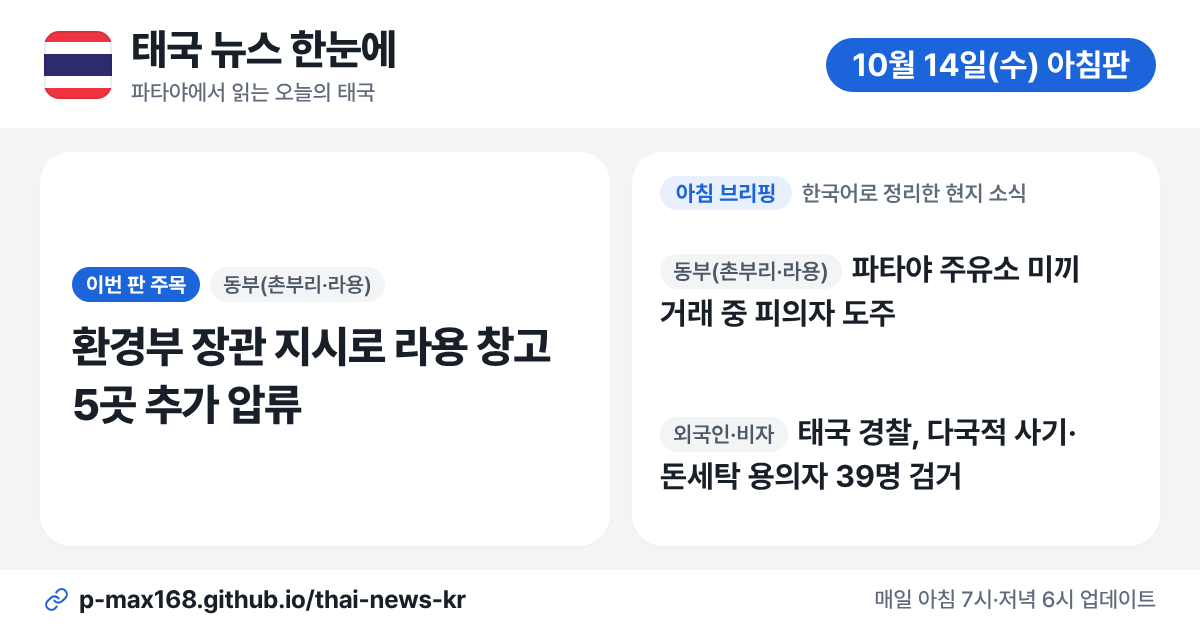
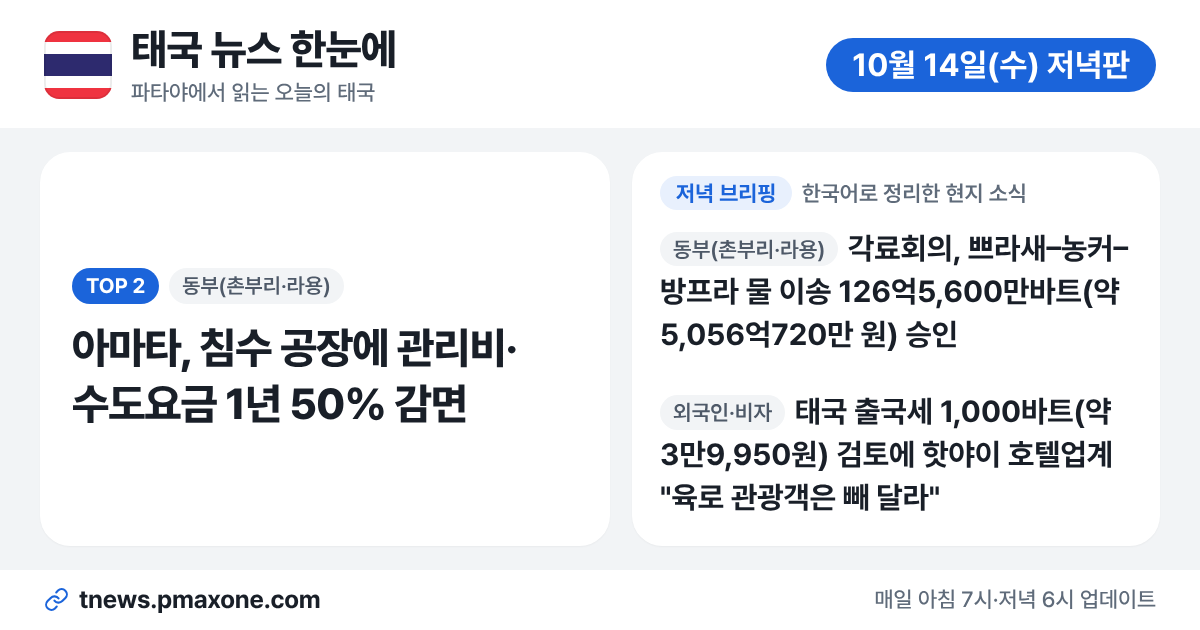
edition 2026-10-14-pm

diff --git a/e/2026-10-14-pm/index.html b/e/2026-10-14-pm/index.html
@@ -1,0 +1,37 @@
+<!doctype html>
+<html lang="ko">
+<head>
+<meta charset="utf-8">
+<meta name="viewport" content="width=device-width, initial-scale=1">
+<meta name="robots" content="noindex, nofollow">
+<title>태국 뉴스 한눈에 — 10월 14일(수) 저녁판</title>
+<meta name="description" content="🏖 아마타, 침수 공장에 관리비·수도요금 1년 50% 감면 · 🏖 각료회의, 쁘라새–농커–방프라 물 이송 126억5,600만바트(약 5,056억720만 원) 승인 · 🛂 태국 출국세 1,00…">
+<meta property="og:type" content="website">
+<meta property="og:site_name" content="태국 뉴스 한눈에">
+<meta property="og:locale" content="ko_KR">
+<meta property="og:title" content="태국 뉴스 한눈에 — 10월 14일(수) 저녁판">
+<meta property="og:description" content="🏖 아마타, 침수 공장에 관리비·수도요금 1년 50% 감면 · 🏖 각료회의, 쁘라새–농커–방프라 물 이송 126억5,600만바트(약 5,056억720만 원) 승인 · 🛂 태국 출국세 1,00…">
+<meta property="og:url" content="https://tnews.pmaxone.com/e/2026-10-14-pm/">
+<meta property="og:image" content="https://tnews.pmaxone.com/og/2026-10-14-pm.png">
+<meta property="og:image:width" content="1200">
+<meta property="og:image:height" content="630">
+<meta property="og:image:alt" content="태국 뉴스 한눈에 — 10월 14일(수) 저녁판">
+<meta name="twitter:card" content="summary_large_image">
+<meta name="twitter:title" content="태국 뉴스 한눈에 — 10월 14일(수) 저녁판">
+<meta name="twitter:description" content="🏖 아마타, 침수 공장에 관리비·수도요금 1년 50% 감면 · 🏖 각료회의, 쁘라새–농커–방프라 물 이송 126억5,600만바트(약 5,056억720만 원) 승인 · 🛂 태국 출국세 1,00…">
+<meta name="twitter:image" content="https://tnews.pmaxone.com/og/2026-10-14-pm.png">
+<meta name="theme-color" content="#ffffff">
+<link rel="icon" type="image/png" sizes="32x32" href="../../assets/icons/favicon-32.png">
+<!-- 판별 링크 미리보기용 정적 페이지(tools/share_kit.py 가 생성). 사람은 바로 판 화면으로 이동.
+     meta refresh 는 일부 미리보기 수집기가 따라가 메인 페이지 태그를 읽을 수 있어 쓰지 않음(JS 이동 + 링크). -->
+<script>location.replace("../../?ed=2026-10-14-pm" + location.hash);</script>
+<style>body{margin:0;font-family:Pretendard,"Apple SD Gothic Neo","Noto Sans KR",sans-serif;background:#F2F4F6;color:#191F28}
+header{background:#fff;color:#191F28;padding:18px 20px;font-weight:800;font-size:20px;box-shadow:0 1px 0 rgba(0,0,0,.05)}main{padding:20px;max-width:640px;margin:auto}
+a.btn{display:inline-block;margin-top:14px;background:#1B64DA;color:#fff;font-weight:700;padding:12px 18px;border-radius:12px;text-decoration:none}
+li{margin:6px 0;color:#333D4B}</style>
+</head>
+<body>
+<header>태국 뉴스 한눈에</header>
+<main><p><b>10월 14일 저녁판</b></p><ul><li>🏖 아마타, 침수 공장에 관리비·수도요금 1년 50% 감면</li><li>🏖 각료회의, 쁘라새–농커–방프라 물 이송 126억5,600만바트(약 5,056억720만 원) 승인</li><li>🛂 태국 출국세 1,000바트(약 3만9,950원) 검토에 핫야이 호텔업계 &quot;육로 관광객은 빼 달라&quot;</li><li>🏛 산업부 &quot;홍수 피해 사업장 59개 도 4,635곳</li><li>🛂 홍콩서 태국 여성 9명 포함 16명 검거</li></ul><a class="btn" href="../../?ed=2026-10-14-pm">이번 판 열기 →</a></main>
+</body>
+</html>
